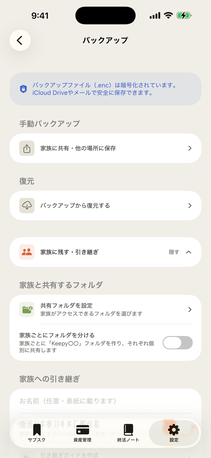
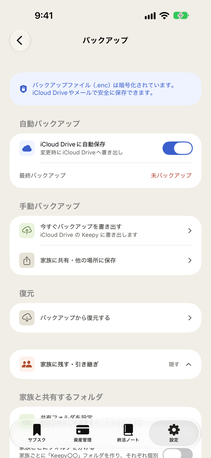
マニュアルのバックアップの画像を、iCloud Drive が使える状態の画面に差し替える
本文が説明する「iCloud Driveに自動保存」「今すぐバックアップを書き出す」が写っていなかった。
公開中の 2.1（build29）の作業用コピーで、iCloud の判定（BackupManager.swift:49-50）だけを撮影用の引数で「使える」にして撮影（個人のサインインなし）。alt も中身に合わせた。

diff --git a/manual.html b/manual.html
@@ -242,7 +242,7 @@
         </div>
       </div>
     </div>
-      <div class="phone"><img srcset="img/manual/backup-211.png 211w, img/manual/backup-422.png 422w, img/manual/backup.png 750w" sizes="(max-width: 620px) 186px, 211px" src="img/manual/backup.png" width="750" height="1629" loading="lazy" alt="バックアップ画面。手動バックアップと復元、家族に残す・引き継ぎの入り口"></div>
+      <div class="phone"><img srcset="img/manual/backup-211.png?v=20260927 211w, img/manual/backup-422.png?v=20260927 422w, img/manual/backup.png?v=20260927 750w" sizes="(max-width: 620px) 186px, 211px" src="img/manual/backup.png?v=20260927" width="750" height="1629" loading="lazy" alt="バックアップ画面。iCloud Driveへの自動保存、今すぐバックアップを書き出す、復元、家族に残す・引き継ぎの入り口"></div>
     </div>
     <div class="note">オフラインで書き出した場合は「<strong>オンライン時に同期</strong>」と表示されます。ファイル自体は保存済みで、インターネットにつながったときに iCloud へアップロードされます。</div>
     <p class="body-text">バックアップが30日以上古くなると、通知でお知らせします。</p>
